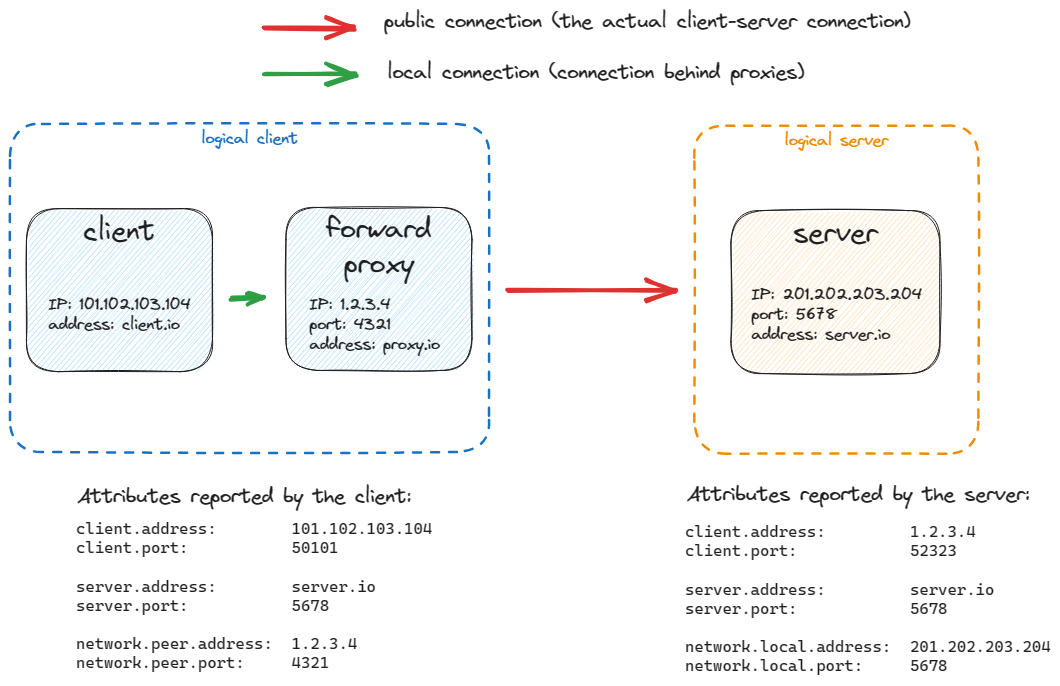
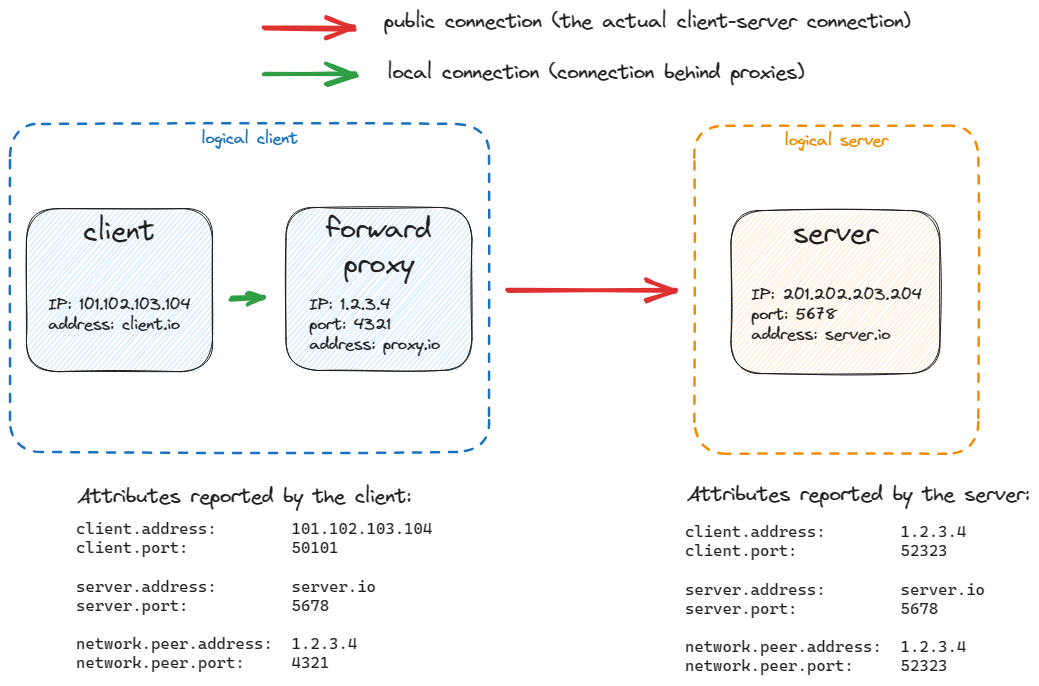
Remove de-duplication

diff --git a/docs/general/attributes.md b/docs/general/attributes.md
@@ -148,10 +148,6 @@ These attributes identify network peers that are directly connected to each othe
 
 For IP-based communication, `network.peer.address` and `network.local.address` should be IP addresses, Unix domain socket names, or other addresses specific to network type.
 
-Semantic conventions and instrumentations that populate `address`/`port` pairs
-on `server.*`, `client.*`, `destination.*` or `source.*`, SHOULD only populate the `address`/`port` pair on
-`network.peer.*` and `network.local.*` when they are not the same.
-
 _Note: Specific structures and methods to obtain socket-level attributes are mentioned here only as examples. Instrumentations would usually use Socket API provided by their environment or sockets implementations._
 
 When connecting using `connect(2)`
@@ -168,7 +164,9 @@ with `AF_INET` address family, `network.peer.address` and `network.peer.port` re
 `network.local.address` and `network.local.port` can be obtained by calling `getsockname` method on [Linux or other POSIX systems](https://man7.org/linux/man-pages/man2/getsockname.2.html) or
 [Windows](https://docs.microsoft.com/windows/win32/api/winsock2/nf-winsock2-getsockname).
 
-#### Client/server examples using  `network.peer.*` and `network.local.*`
+#### Client/server examples using  `network.peer.*`
+
+Note that `network.local.*` attributes are not included in these examples since they are typically Opt-In.
 
 ##### Simple client/server example
 
